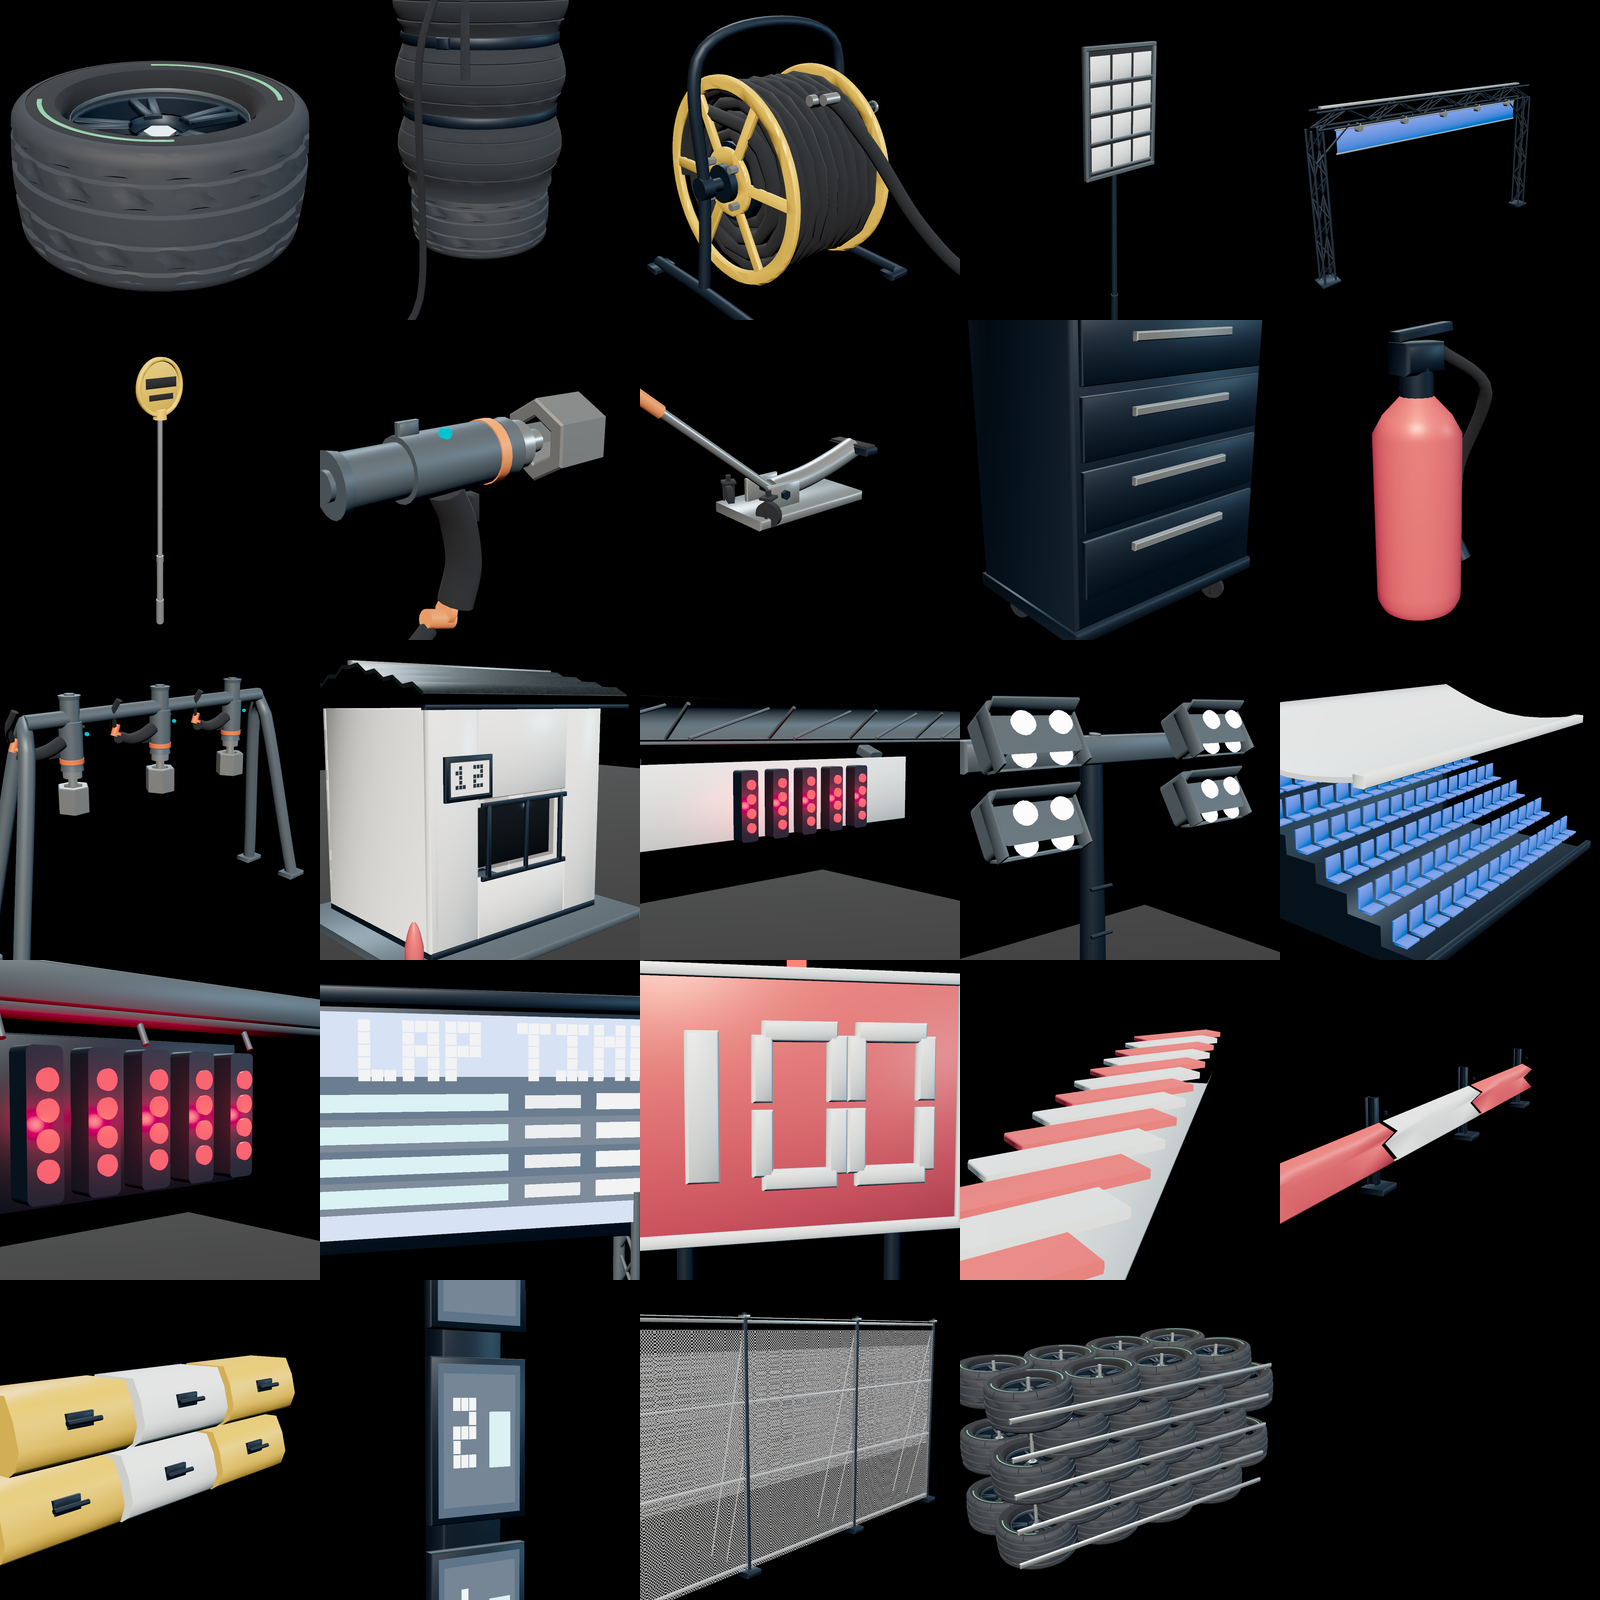
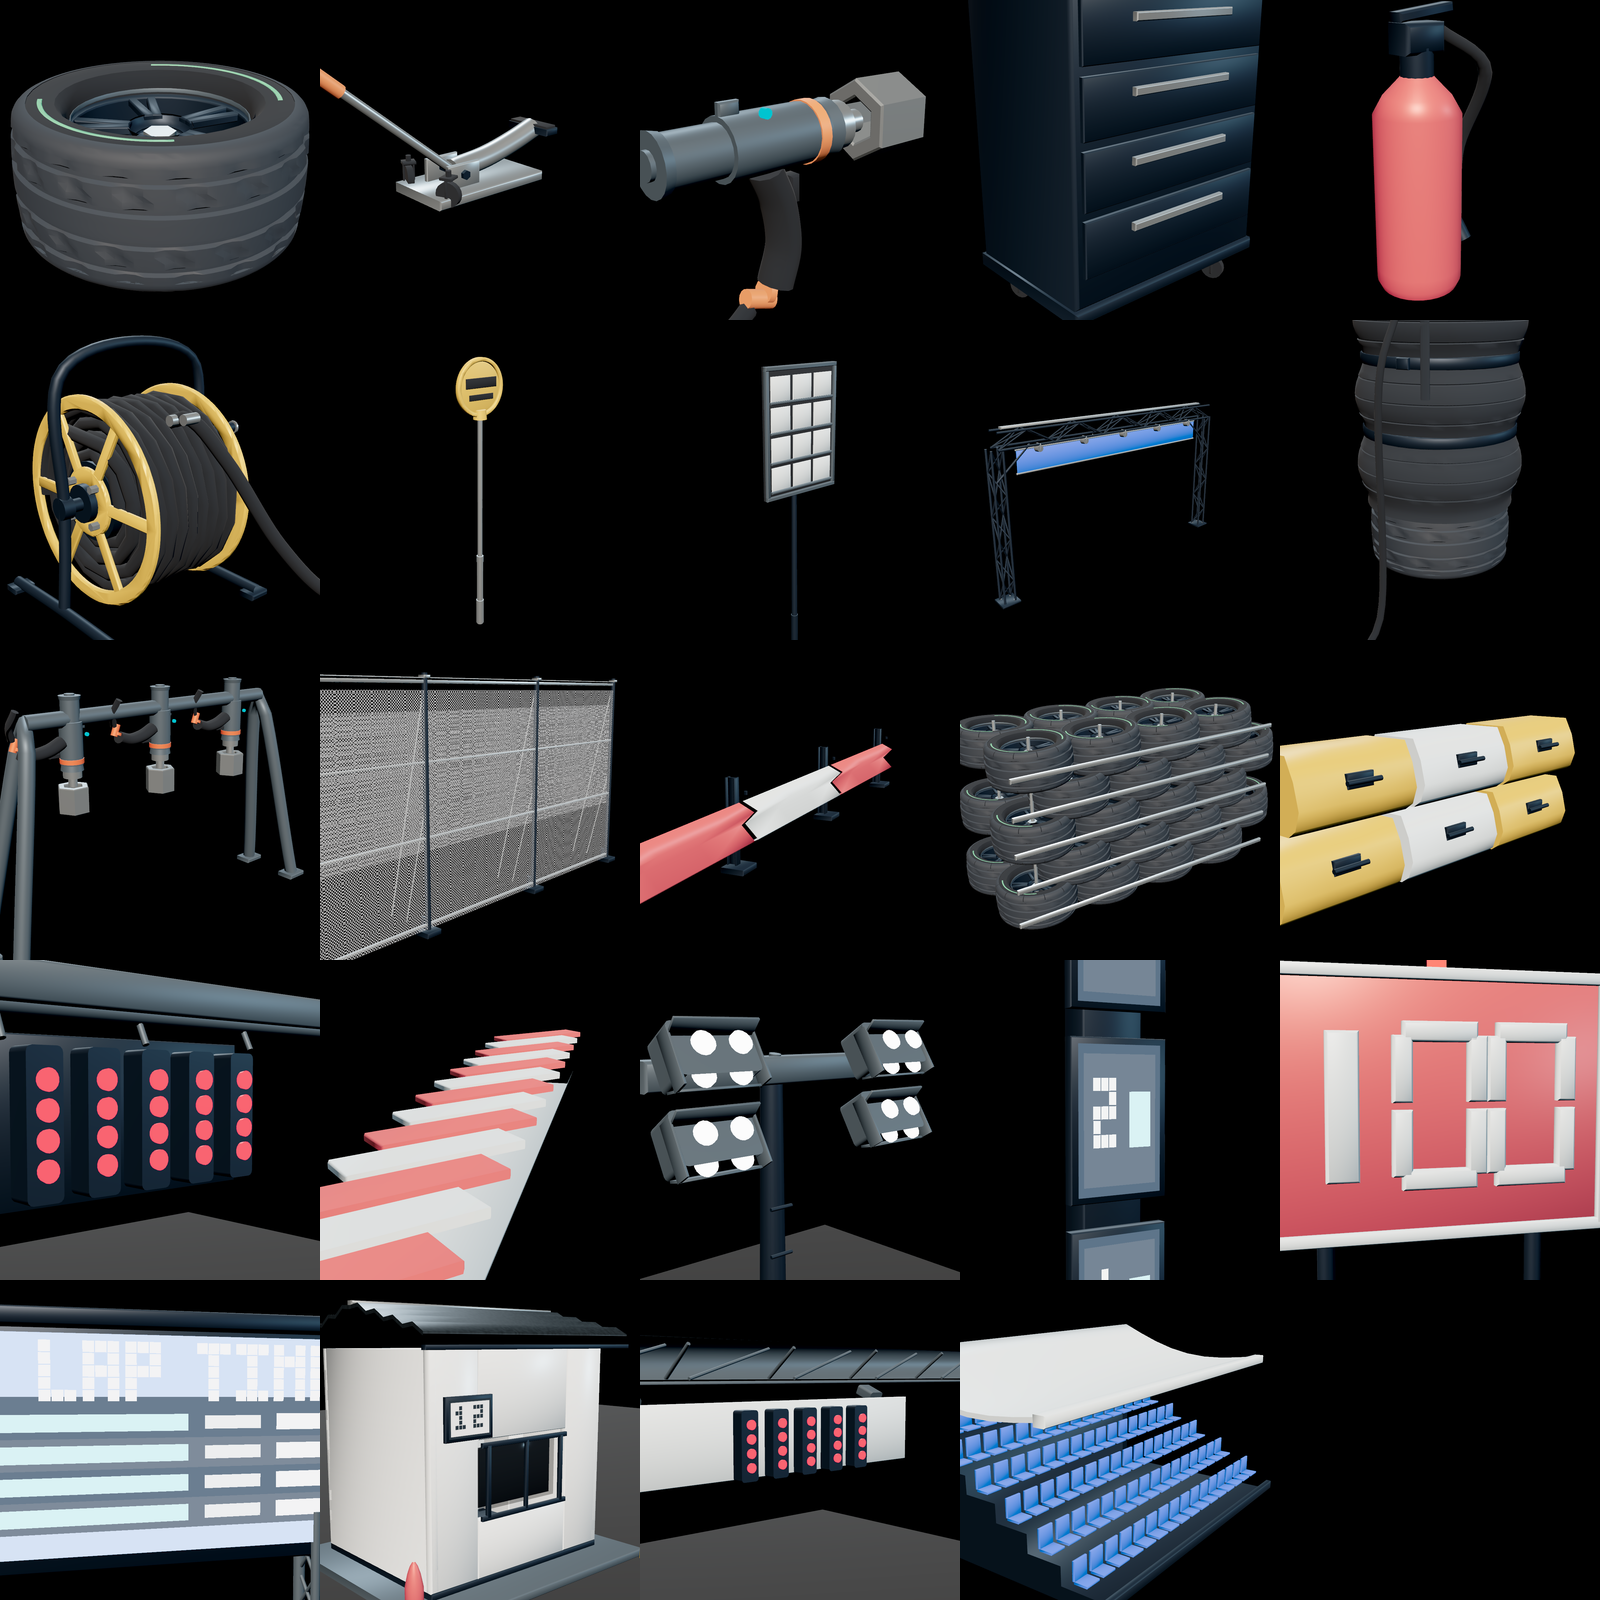
fix(f1-kit): drop start-light PointLights that pooled in panel center
Five omnidirectional PointLights at panel mid-height overlapped in the gap between columns and read as one central glow. Lamp read is emissive only now; sequence stills (lit 0-5) and refreshed contact sheets are in docs/assets/f1-kit-previews/.

diff --git a/assets/f1-prototypes/f1-start-lights/model.ts b/assets/f1-prototypes/f1-start-lights/model.ts
@@ -10,7 +10,6 @@ import {
   CylinderGeometry,
   Group,
   Mesh,
-  PointLight,
   Vector3,
   type Material,
 } from 'three/webgpu'
@@ -182,12 +181,6 @@ export function createModel(options: F1StartLightsOptions = {}): F1StartLightsIn
         lamp.translate(x, PANEL_Y + (1.5 - r) * rowPitch, lampZ)
         emit('lamp', lamp, panel, `lamp-${c}-${r}`, on ? lampOn : lampOff)
       }
-      if (on) {
-        const glow = new PointLight(0xc41820, 1.4, 1.8, 2)
-        glow.name = `glow-${c}`
-        glow.position.set(x, PANEL_Y, lampZ + 0.12)
-        panel.add(glow)
-      }
     }
   }
   rebuild()
@@ -225,8 +218,17 @@ export function createModel(options: F1StartLightsOptions = {}): F1StartLightsIn
   }
 }
 
+function litFromEnv(): number | undefined {
+  const raw = process.env.F1_START_LIGHTS_LIT
+  if (raw === undefined || raw === '') return undefined
+  const n = Number(raw)
+  if (!Number.isFinite(n)) return undefined
+  return Math.min(5, Math.max(0, Math.round(n)))
+}
+
 export function createPreview({ aspect }: { aspect: number; time?: number }) {
-  return createF1Preview(createModel(), {
+  const lit = litFromEnv()
+  return createF1Preview(createModel(lit !== undefined ? { lit } : {}), {
     aspect,
     target: [0, PANEL_Y, 0.28],
     distance: 4.8,

diff --git a/assets/f1-prototypes/f1-start-gantry/model.ts b/assets/f1-prototypes/f1-start-gantry/model.ts
@@ -8,7 +8,6 @@ import {
   CylinderGeometry,
   Group,
   Mesh,
-  PointLight,
   Vector3,
   type Material,
 } from 'three/webgpu'
@@ -194,13 +193,6 @@ export function createModel(options: F1StartGantryOptions = {}): F1StartGantryIn
     }
     emit('banner', mergeParts(housings, 'housings'), banner, 'housings', kit.graphite)
     emit('banner', mergeParts(lamps, 'lights'), banner, 'lights', lampOn)
-    for (let c = 0; c < 5; c++) {
-      const x = (c - 2) * LIGHT_PITCH
-      const glow = new PointLight(0xc41820, 1.2, 1.6, 2)
-      glow.name = `glow-${c}`
-      glow.position.set(x, bannerY, lampZ + 0.1)
-      banner.add(glow)
-    }
   }
   rebuild()
 

diff --git a/assets/f1-prototypes/f1-kit-core/preview.ts b/assets/f1-prototypes/f1-kit-core/preview.ts
@@ -35,7 +35,7 @@ export interface F1PreviewOptions {
   /** Elevation in radians above the horizon. */
   readonly pitch?: number
   readonly fov?: number
-  /** Dark receive card so lamp PointLights/SpotLights pool on the ground. */
+  /** Dark receive card for preview framing (optional emissive lamp read). */
   readonly ground?: boolean
 }
 
